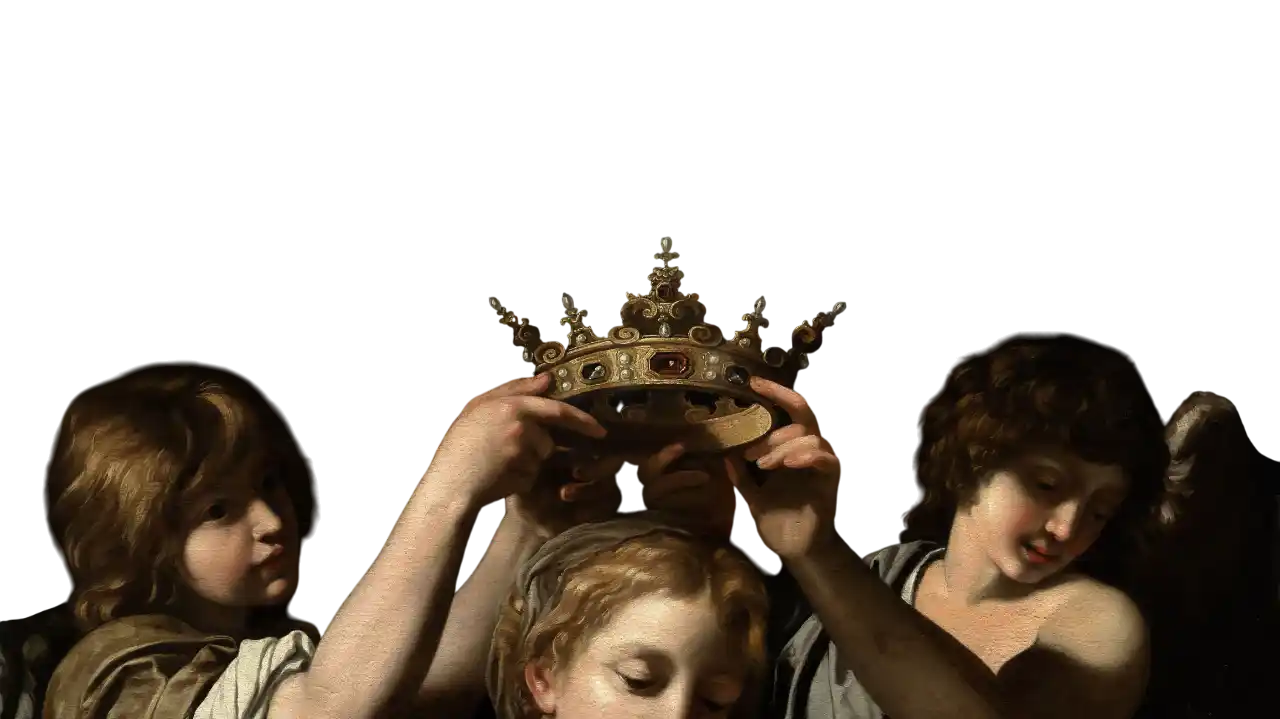
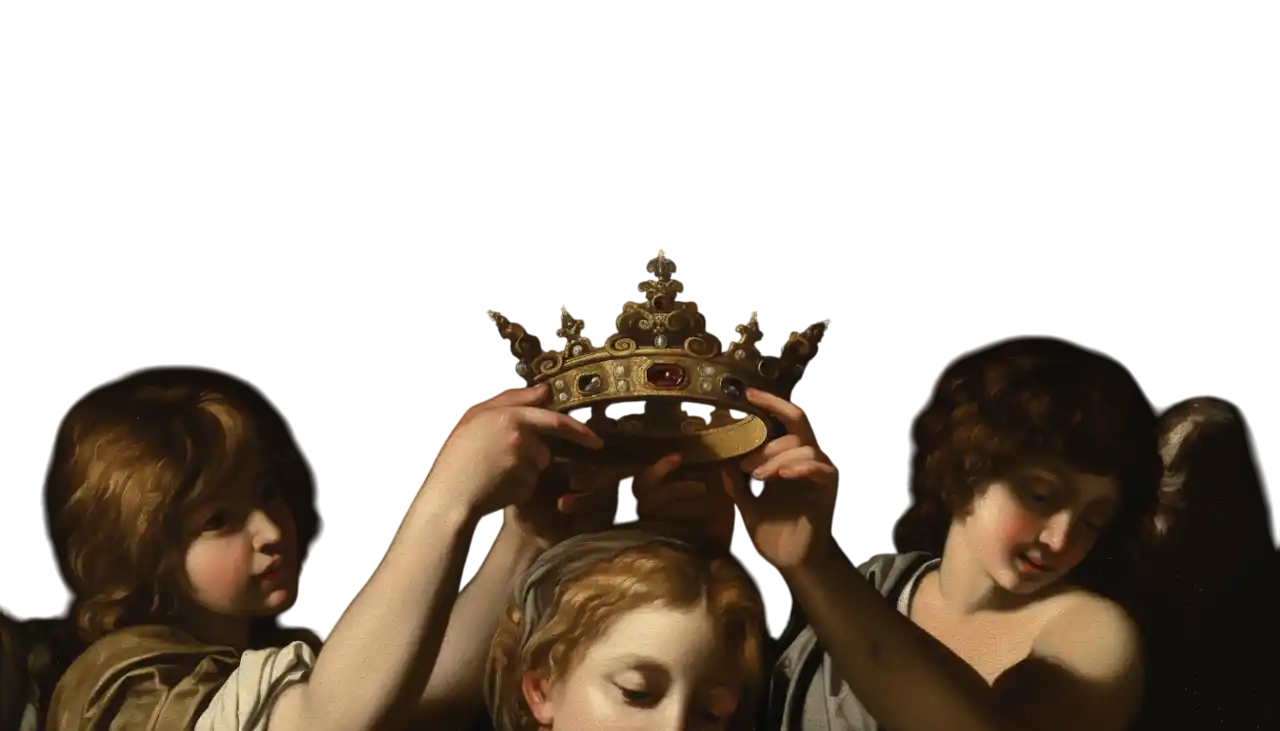
kalite artırıldı ve animasyon denemeleri

diff --git a/src/pages/Home.js b/src/pages/Home.js
@@ -1,4 +1,4 @@
-import React from 'react';
+import React, { useEffect, useRef } from 'react';
 import styled from 'styled-components';
 import { motion } from 'framer-motion';
 import { FaChevronDown } from 'react-icons/fa';
@@ -19,30 +19,26 @@ const HomeContainer = styled.div`
   &::before {
     content: '';
     position: absolute;
-    top: 0;
+    top: -50%;
     left: 0;
     right: 0;
-    bottom: 0;
+    height: 200%;
     background-image: url('/home.webp');
     background-size: cover;
     background-position: center;
     background-repeat: no-repeat;
+    background-attachment: fixed;
     opacity: 0.3;
     z-index: -1;
-    animation: backgroundFloat 20s ease-in-out infinite;
+    will-change: transform;
+    transform: translateZ(0) translateY(var(--parallax-offset, 0px));
     
     @media (max-width: 768px) {
       opacity: 0.2;
       filter: blur(0.5px);
-    }
-  }
-
-  @keyframes backgroundFloat {
-    0%, 100% { 
-      transform: scale(1) rotate(0deg); 
-    }
-    50% { 
-      transform: scale(1.05) rotate(0.5deg); 
+      background-attachment: scroll;
+      top: -20%;
+      height: 140%;
     }
   }
 `;
@@ -114,6 +110,22 @@ const ScrollButton = styled(motion.button)`
 const Home = () => {
   const { data, loading } = useFirebase();
   const homeData = data?.home || {};
+  const containerRef = useRef(null);
+
+  useEffect(() => {
+    const handleScroll = () => {
+      if (containerRef.current) {
+        const scrolled = window.pageYOffset;
+        const parallax = scrolled * 0.3; // Daha yavaş hareket
+        
+        // CSS custom property ile parallax efekti
+        containerRef.current.style.setProperty('--parallax-offset', `${parallax}px`);
+      }
+    };
+
+    window.addEventListener('scroll', handleScroll, { passive: true });
+    return () => window.removeEventListener('scroll', handleScroll);
+  }, []);
 
   const scrollToAbout = () => {
     const aboutSection = document.getElementById('about');
@@ -132,7 +144,7 @@ const Home = () => {
 
   if (loading) {
     return (
-      <HomeContainer>
+      <HomeContainer ref={containerRef}>
         <Content>
           <SplitText
             text="Musa Yücesan"
@@ -154,7 +166,7 @@ const Home = () => {
   }
 
   return (
-    <HomeContainer>
+    <HomeContainer ref={containerRef}>
       <SplitTextStyles>
         <Content
           initial={{ opacity: 0, y: 20 }}
